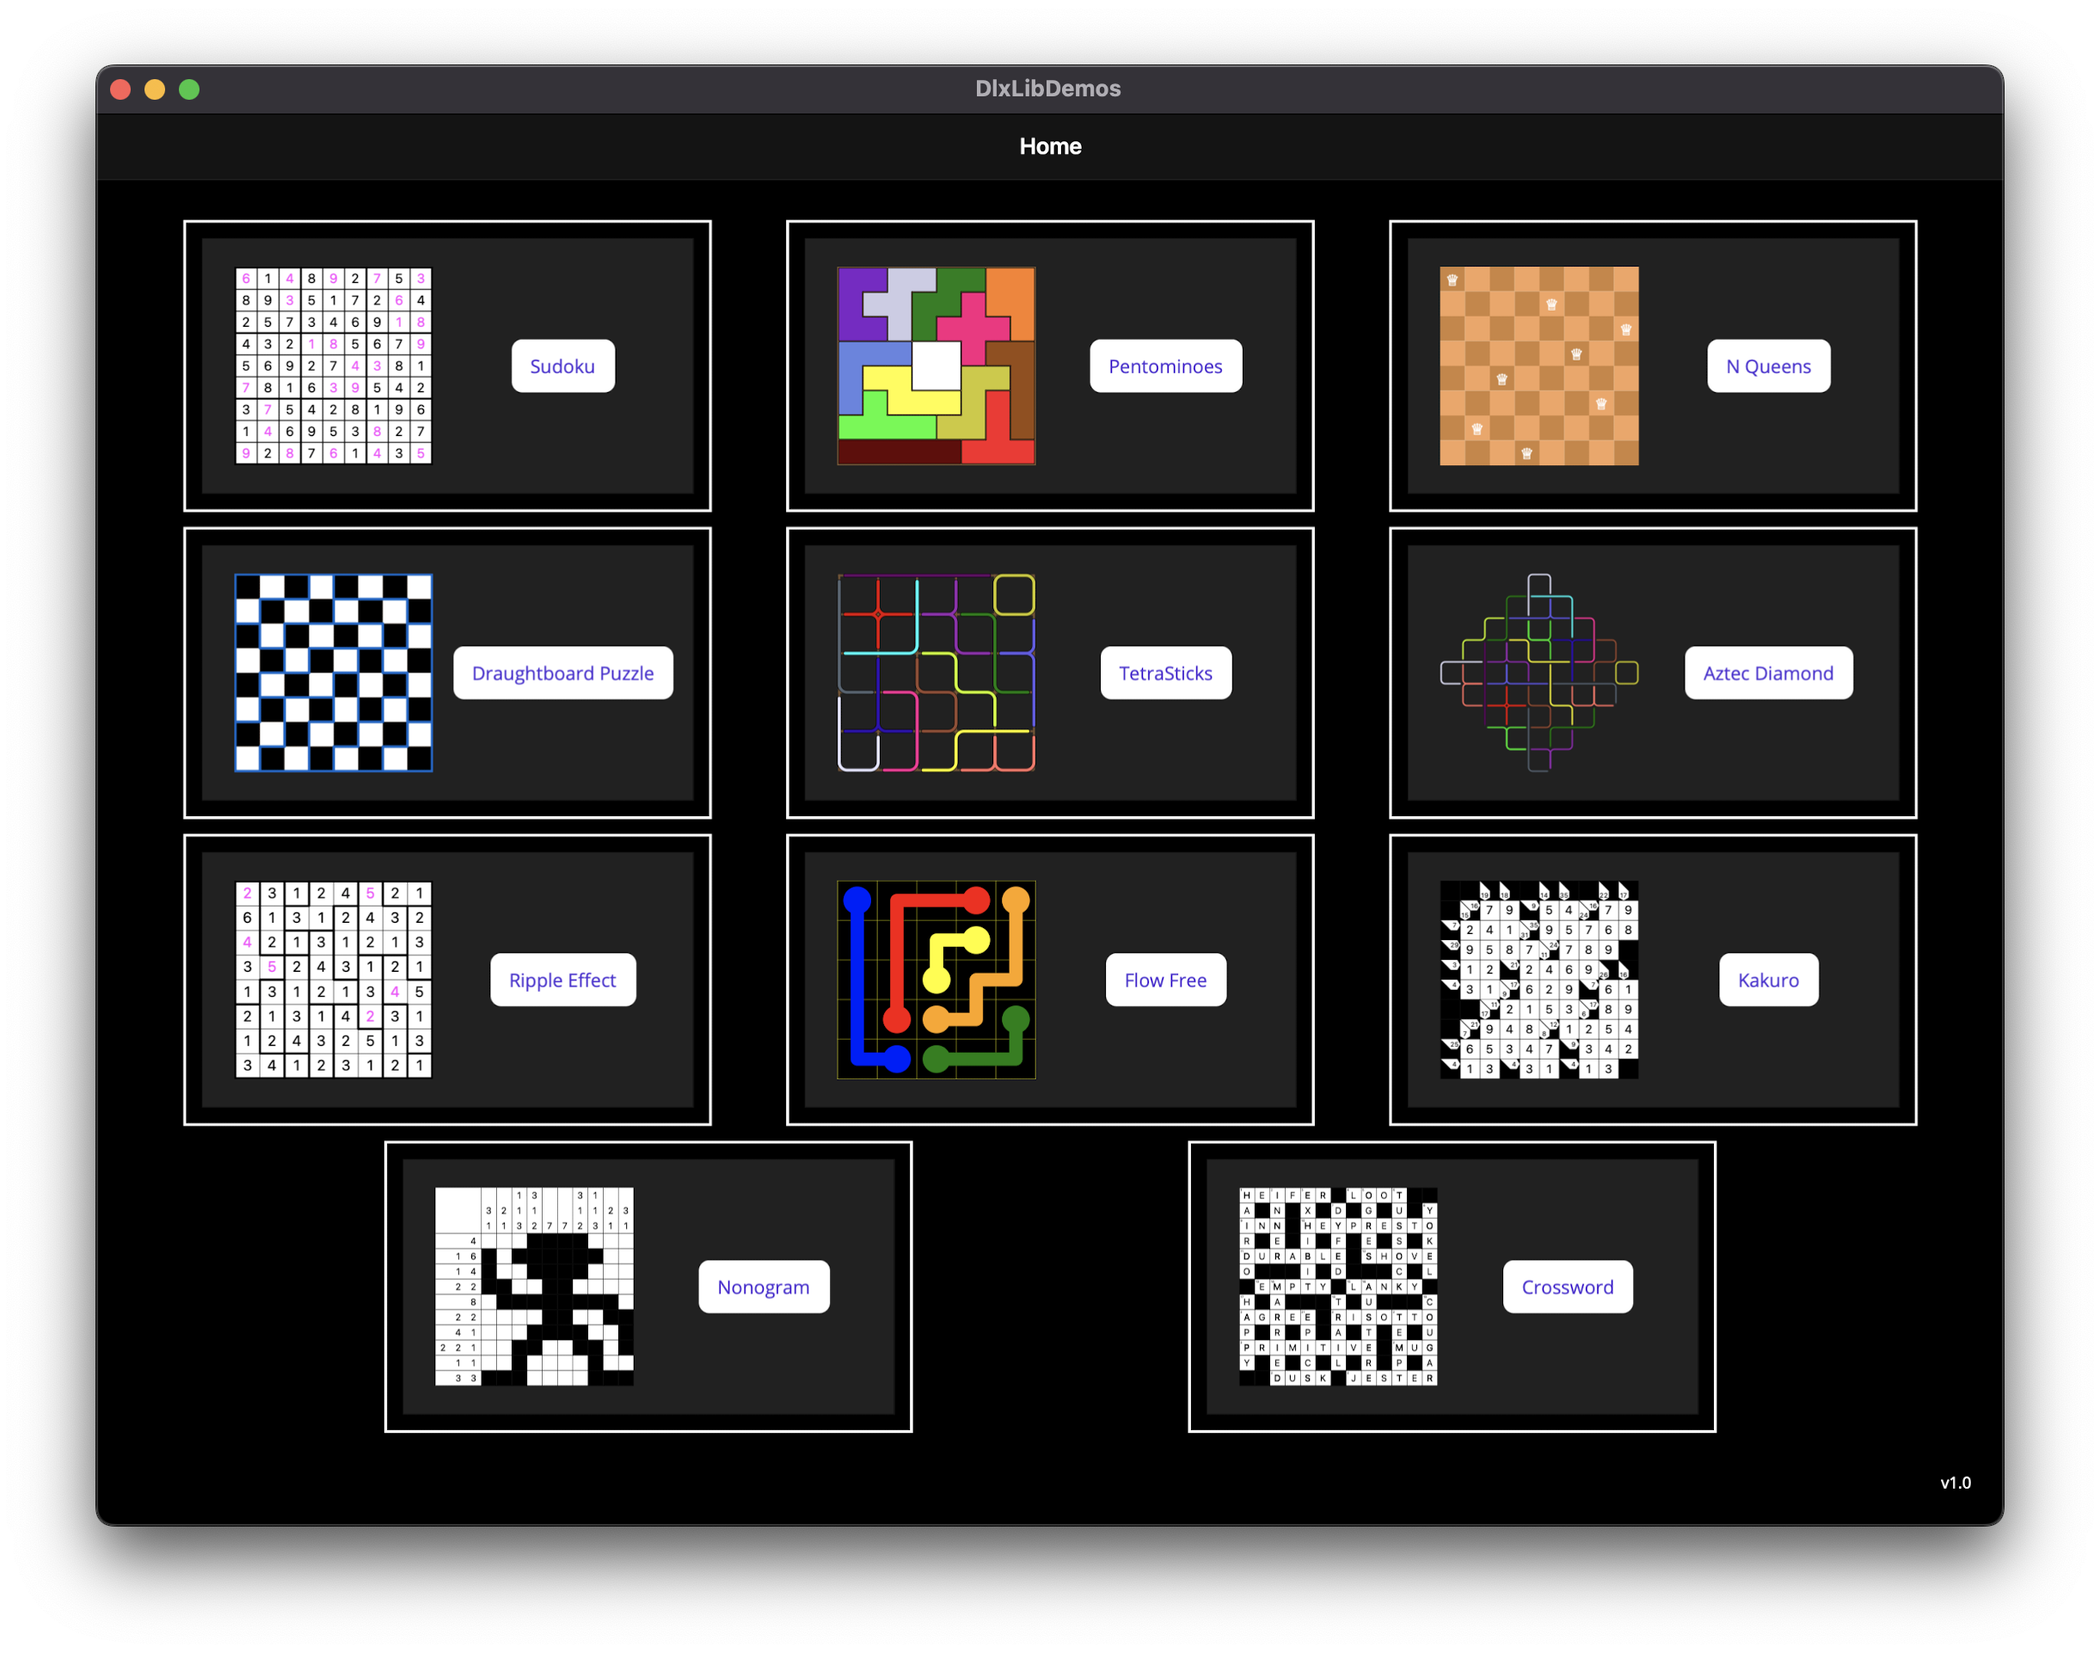
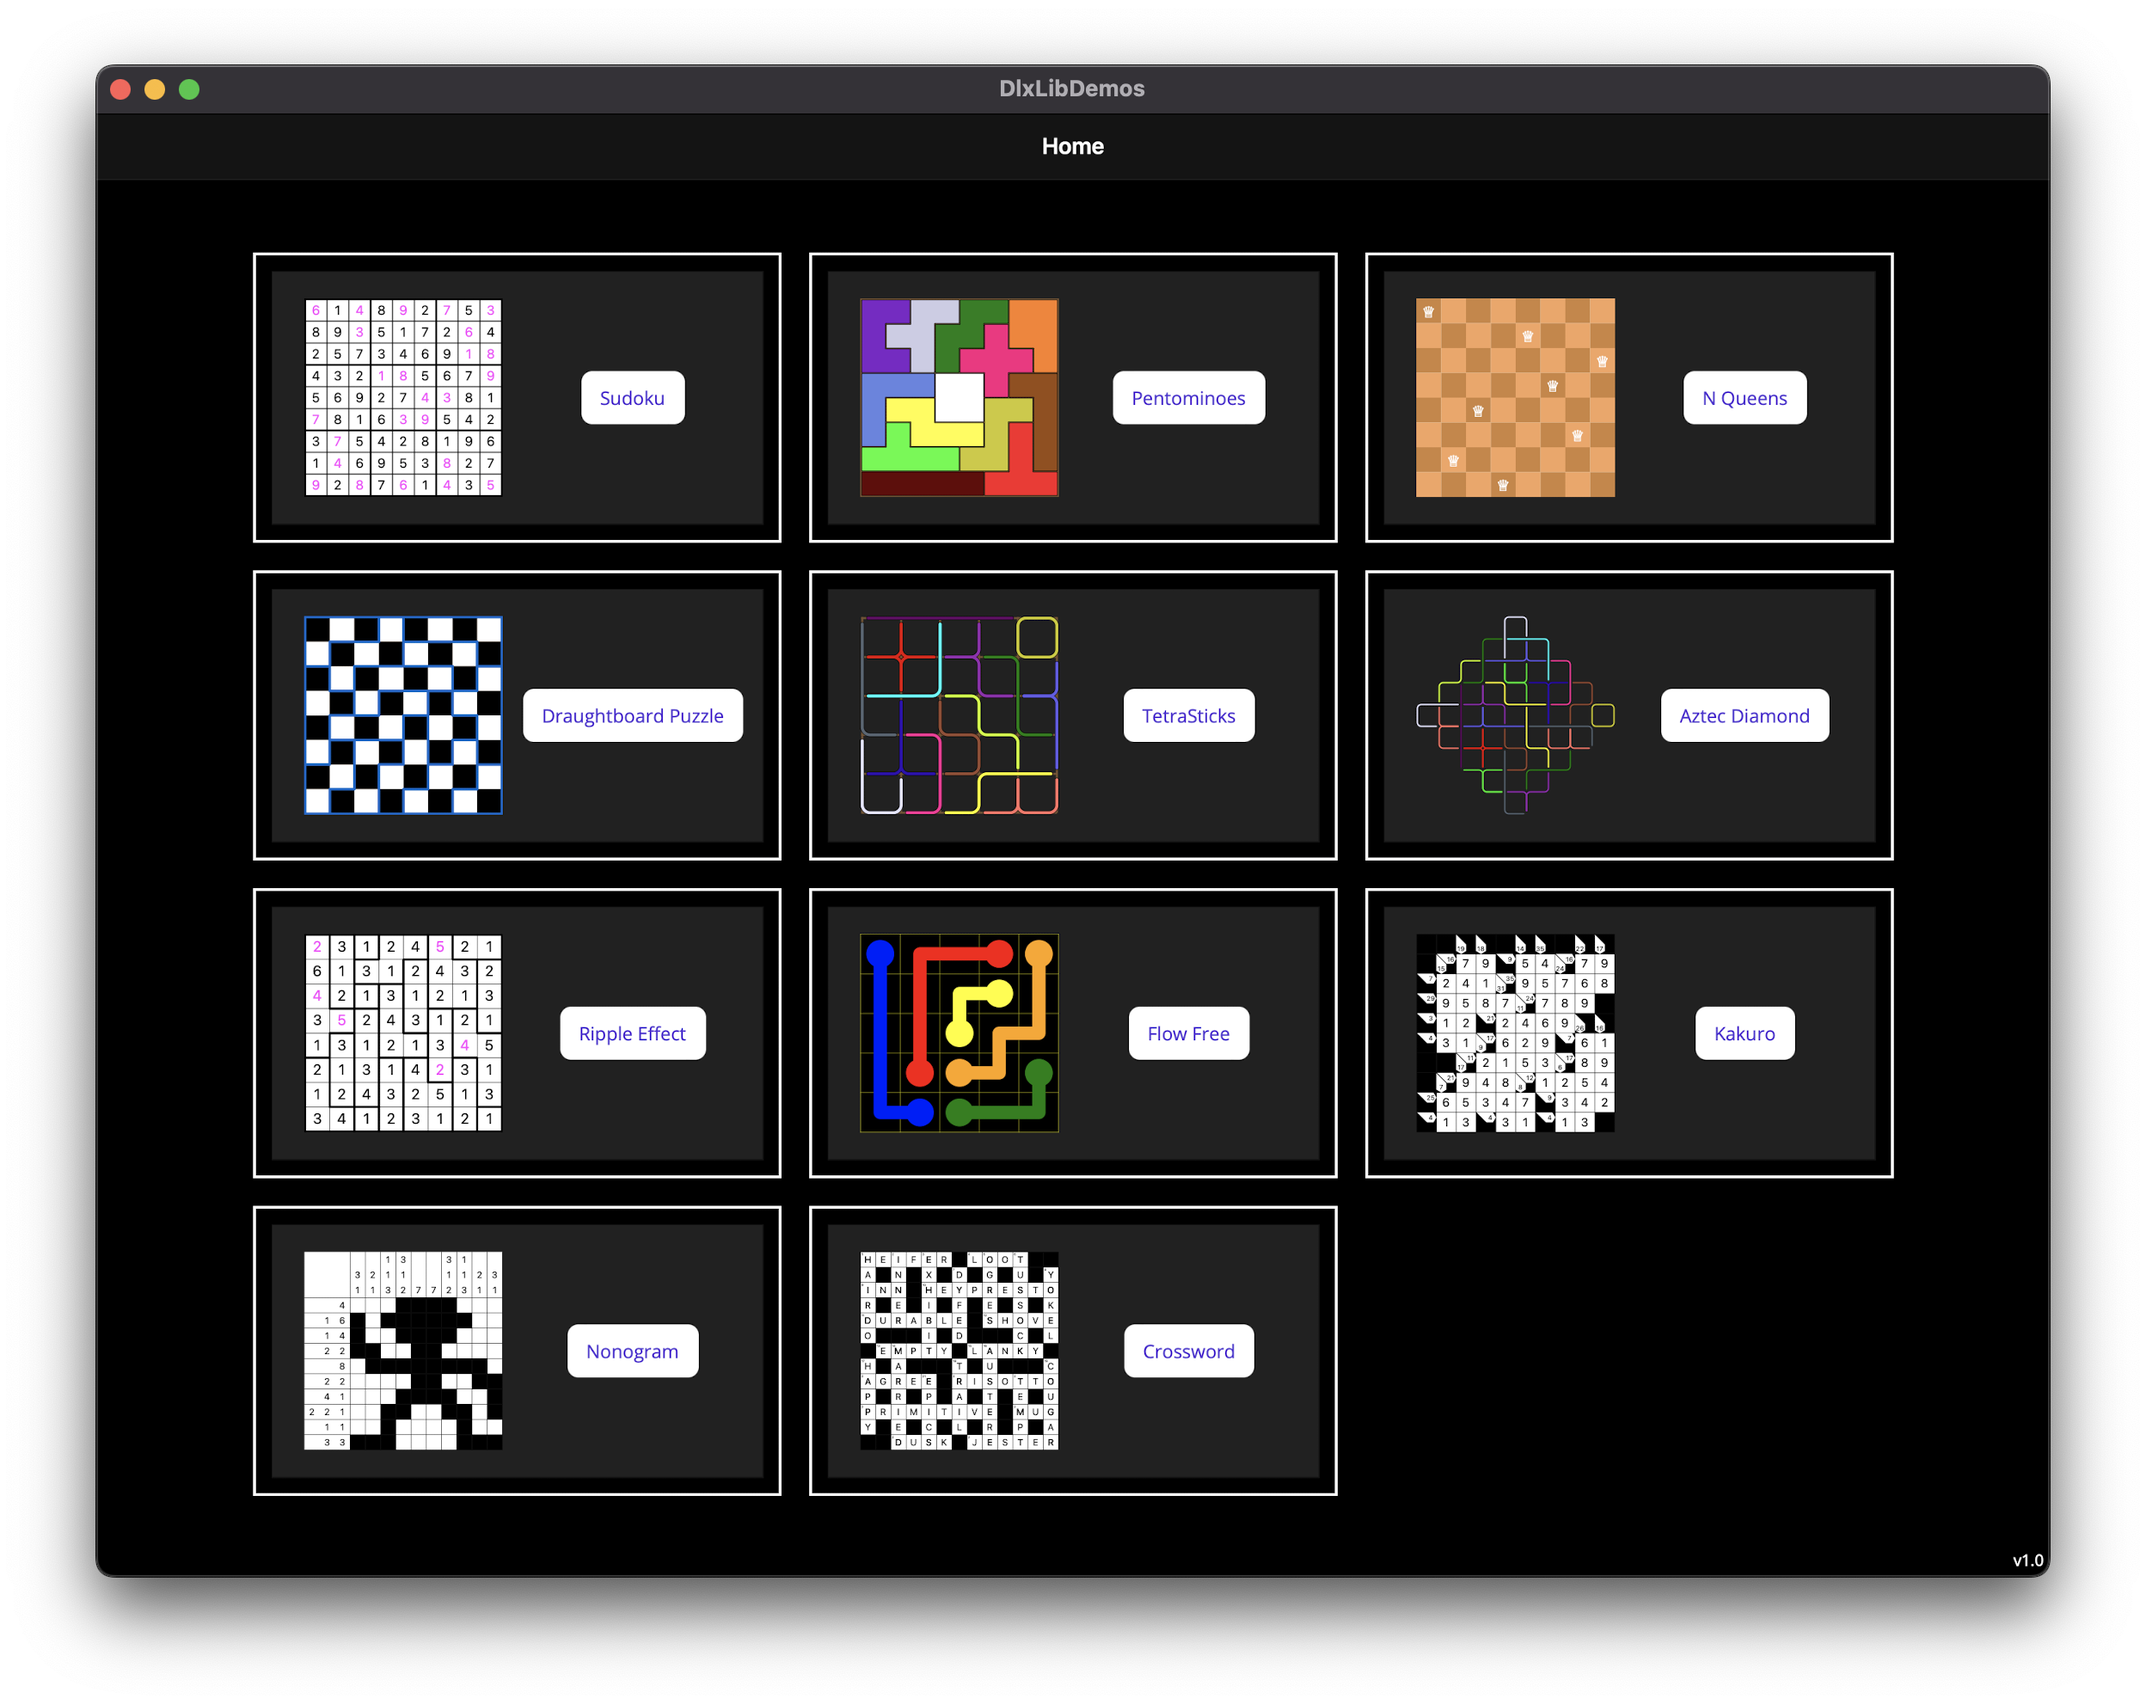
More adjustments to home page tiles

diff --git a/DlxLibDemos/HomePageView.xaml b/DlxLibDemos/HomePageView.xaml
@@ -4,21 +4,20 @@
              x:Class="DlxLibDemos.HomePageView"
              x:Name="page">
 
-    <Grid Margin="20">
-        <ScrollView x:Name="MyScrollView" Margin="0,0,0,50">
+    <Grid ColumnDefinitions="*,Auto,*">
+        <ScrollView Grid.Column="1" x:Name="TilesScrollView" Margin="0,50,0,50">
             <FlexLayout
-                x:Name="MyFlexLayout"
+                x:Name="TilesFlexLayout"
                 BindableLayout.ItemsSource="{Binding AvailableDemos}"
                 Wrap="Wrap"
-                JustifyContent="SpaceEvenly"
+                JustifyContent="Start"
             >
                 <BindableLayout.ItemTemplate>
                     <DataTemplate>
                         <Border Stroke="White"
                                 StrokeThickness="4"
                                 WidthRequest="400"
-                                MinimumHeightRequest="150"
-                                MaximumHeightRequest="250"
+                                HeightRequest="220"
                                 Margin="5"
                                 Padding="10">
                             <Border.GestureRecognizers>
@@ -54,6 +53,7 @@
             </FlexLayout>
         </ScrollView>
         <Label
+            Grid.Column="2"
             Margin="0,0,5,5"
             VerticalOptions="End"
             HorizontalOptions="End"

diff --git a/DlxLibDemos/HomePageView.xaml.cs b/DlxLibDemos/HomePageView.xaml.cs
@@ -14,27 +14,28 @@ public partial class HomePageView : ContentPage
     _logger.LogInformation("constructor");
     InitializeComponent();
     BindingContext = viewModel;
-    MyScrollView.SizeChanged += OnMyScrollViewSizeChanged;
+    SizeChanged += OnSizeChanged;
   }
 
-  private void OnMyScrollViewSizeChanged(object sender, EventArgs e)
+  private void OnSizeChanged(object sender, EventArgs e)
   {
-    var scrollViewWidth = MyScrollView.Width;
-    var scrollViewHeight = MyScrollView.Height;
-    _logger.LogInformation($"[OnGraphicsViewSizeChanged] scrollViewWidth {scrollViewWidth}; scrollViewHeight: {scrollViewHeight}");
-
     const int TILE_WIDTH = 400;
-    const int MAXIMUM_TILE_HEIGHT = 250;
-    const int GAP = 10;
+    const int TILE_HEIGHT = 220;
+    const int H_GAP = 10;
+    const int V_GAP = 10;
 
-    var availableDemoCount = _viewModel.AvailableDemos.Length;
+    var tileCount = _viewModel.AvailableDemos.Length;
 
-    var numTilesWide = Math.Max((int)(scrollViewWidth / TILE_WIDTH), 1);
-    var numTilesHigh = Math.Max((int)(availableDemoCount / numTilesWide), 1);
-    _logger.LogInformation($"[OnGraphicsViewSizeChanged] numTilesWide {numTilesWide}; numTilesHigh: {numTilesHigh}");
+    var numTilesWide = (int)Math.Floor(Width / (TILE_WIDTH + H_GAP));
+    var numTilesHigh = (int)Math.Ceiling((double)tileCount / numTilesWide);
+    _logger.LogInformation($"[OnGraphicsViewSizeChanged] {new { numTilesWide, numTilesHigh }}");
 
-    var approxFlexLayoutHeight = numTilesHigh * MAXIMUM_TILE_HEIGHT + (numTilesHigh - 1) * GAP;
-    _logger.LogInformation($"[OnGraphicsViewSizeChanged] approxFlexLayoutHeight {approxFlexLayoutHeight}");
-    MyFlexLayout.HeightRequest = Math.Max(approxFlexLayoutHeight, scrollViewHeight);
+    var approxFlexLayoutWidth = numTilesWide * TILE_WIDTH + (numTilesWide * 2) * H_GAP;
+    var approxFlexLayoutHeight = numTilesHigh * TILE_HEIGHT + (numTilesHigh * 2) * V_GAP;
+    _logger.LogInformation($"[OnGraphicsViewSizeChanged] {new { approxFlexLayoutWidth, approxFlexLayoutHeight }}");
+
+    TilesScrollView.WidthRequest = approxFlexLayoutWidth;
+    TilesFlexLayout.WidthRequest = approxFlexLayoutWidth;
+    TilesFlexLayout.HeightRequest = approxFlexLayoutHeight;
   }
 }
